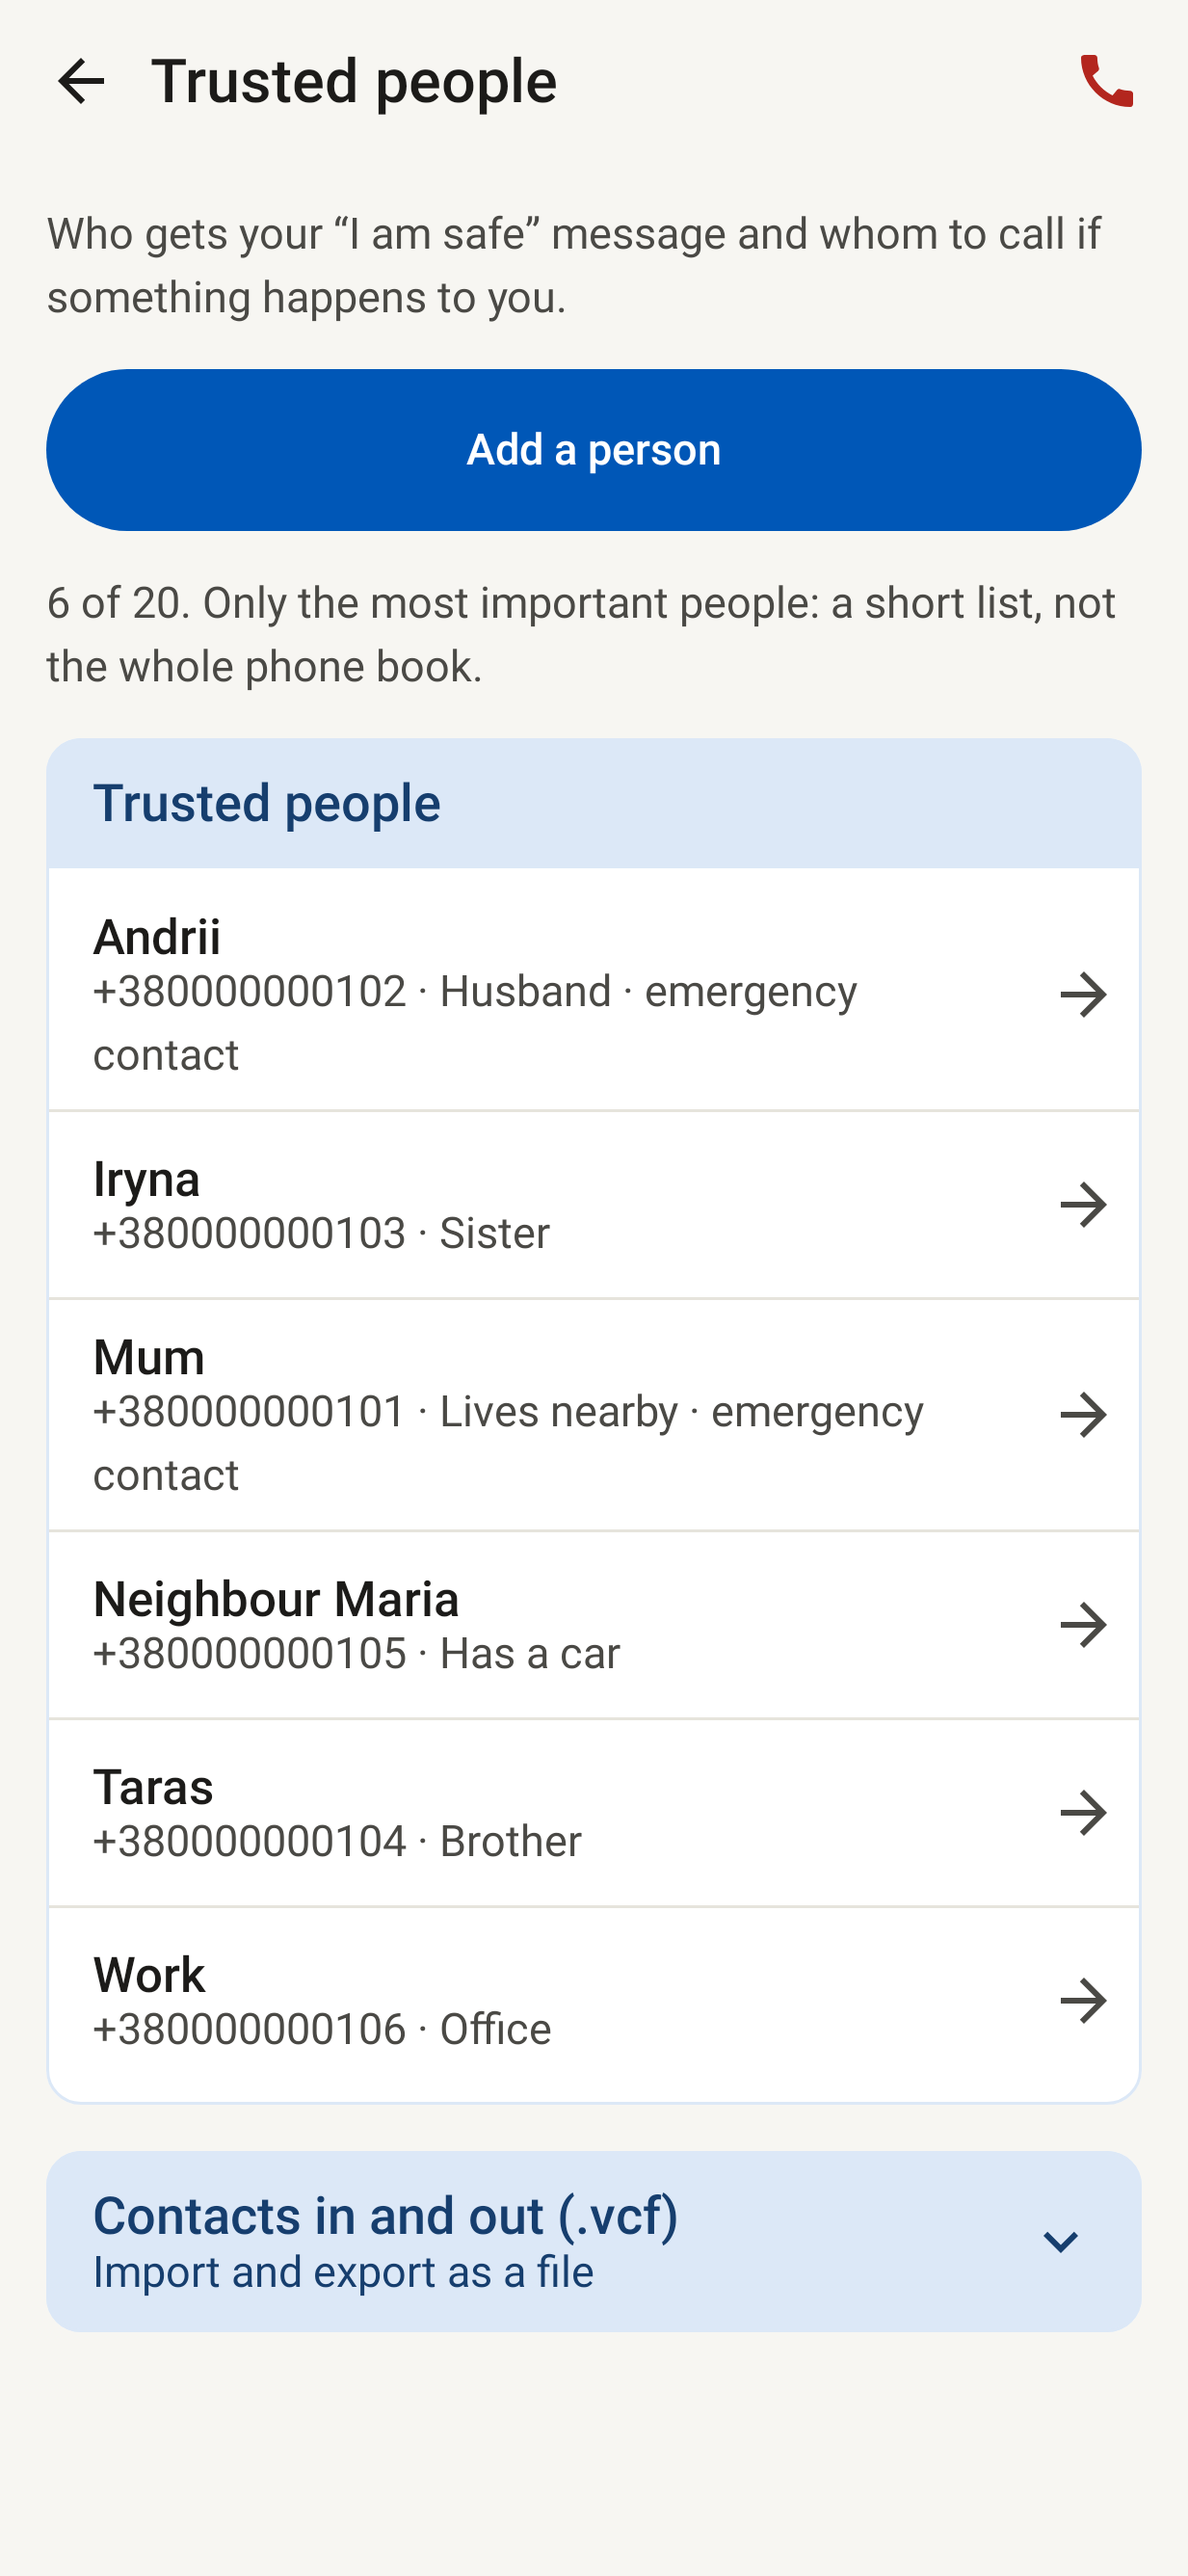
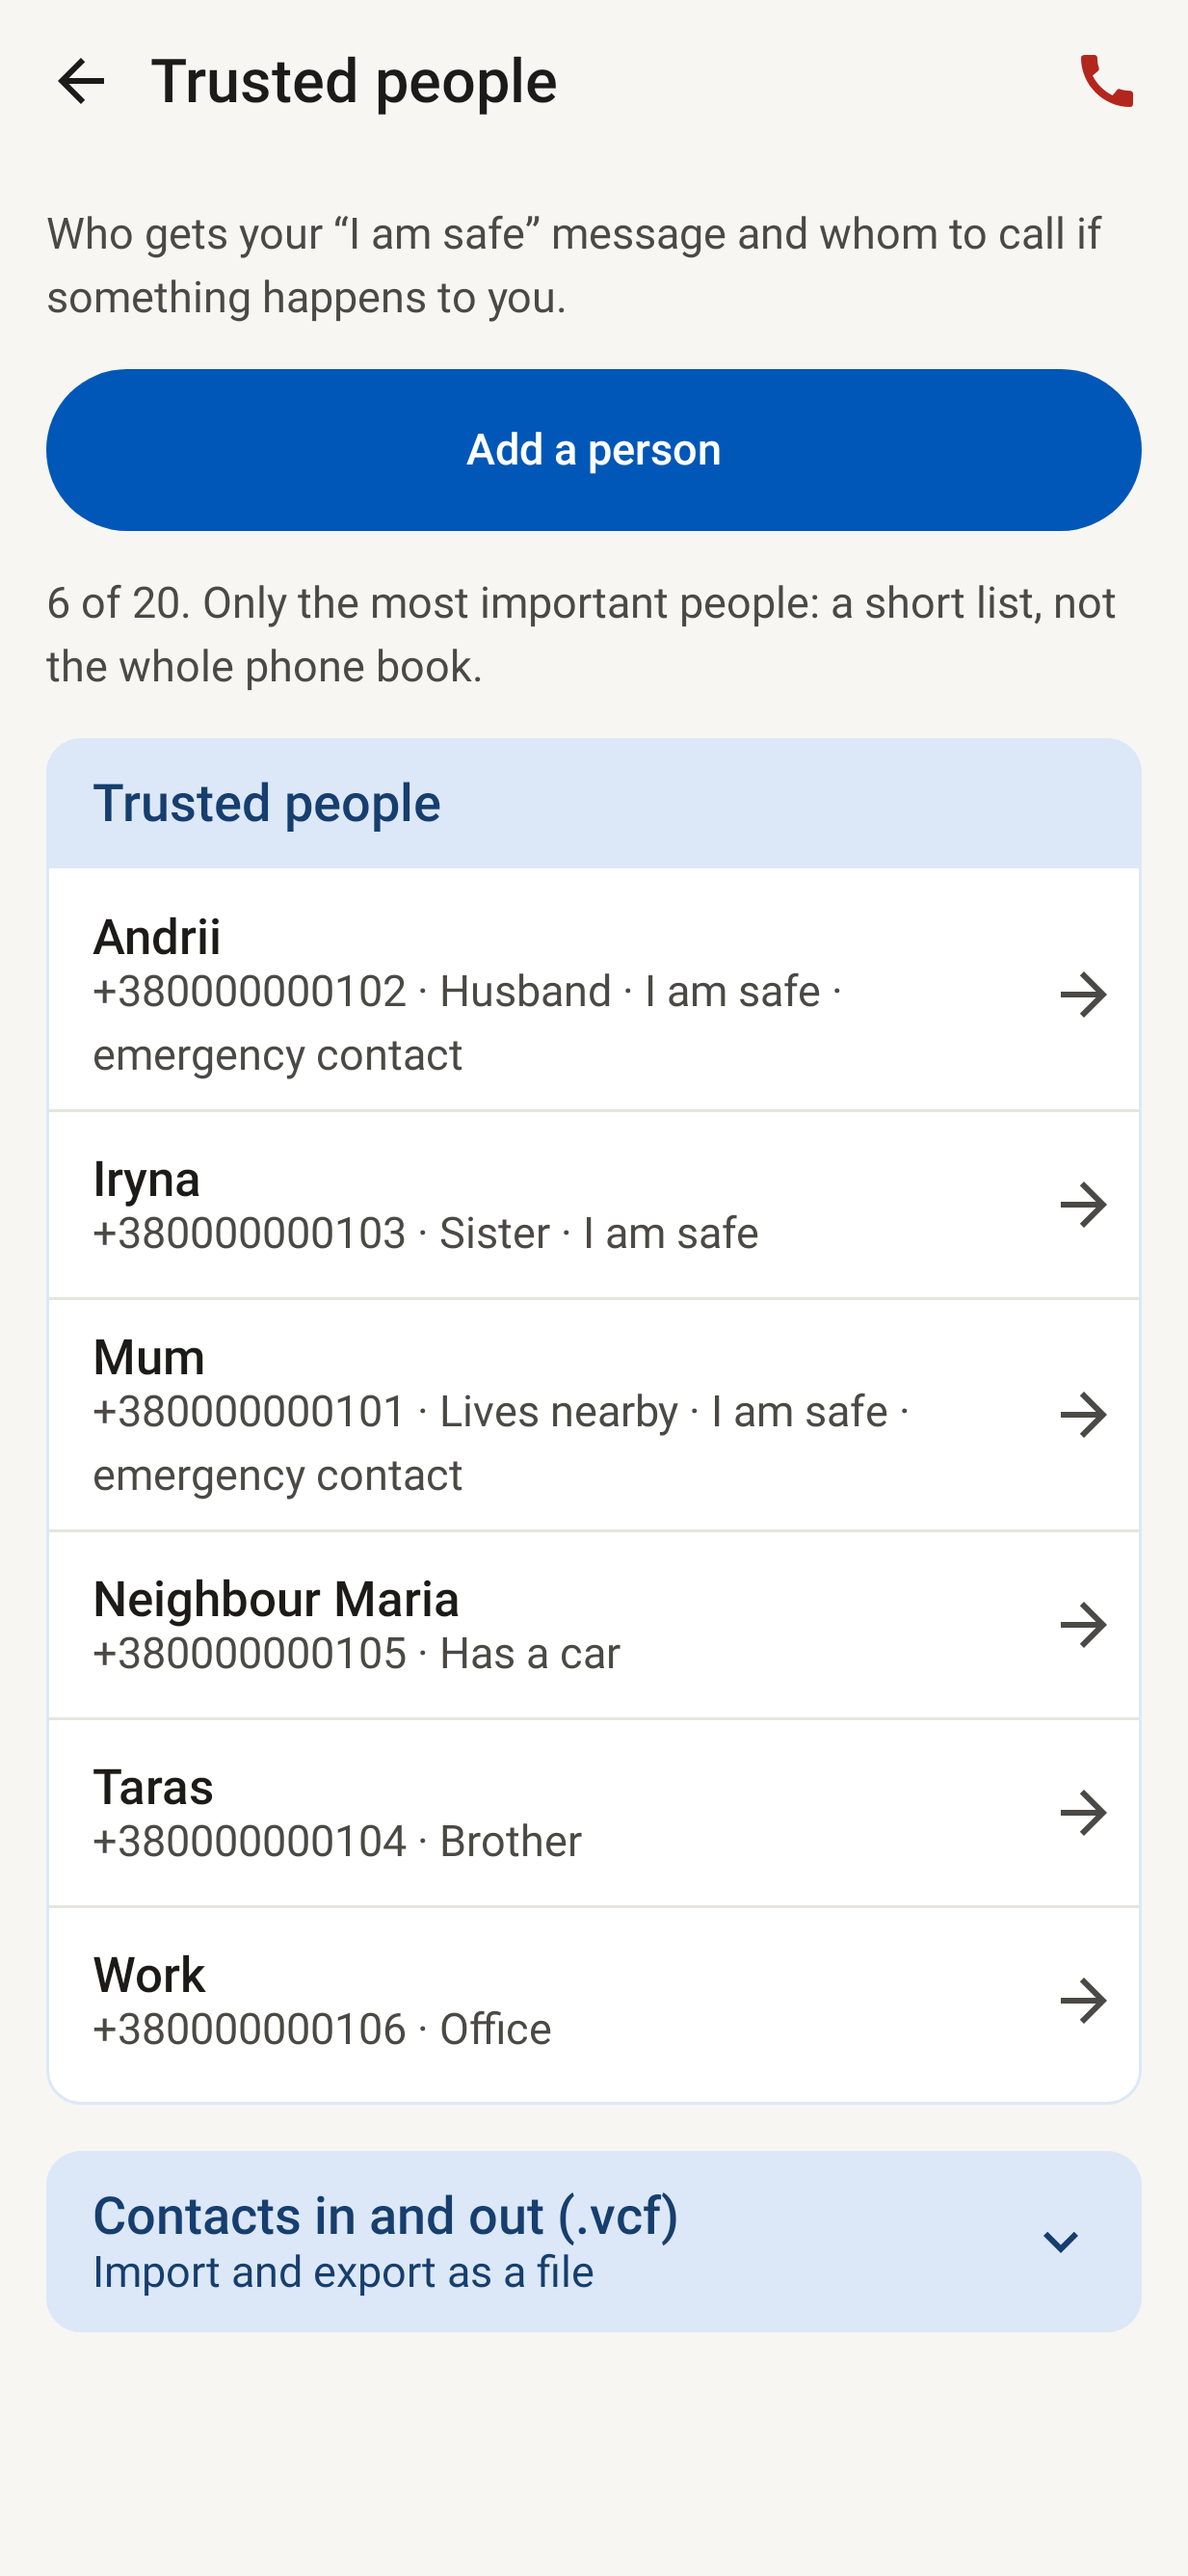
Version 1.1.3: card steps readable again, contacts chosen on import, final review fixes; 18 store pictures; reproducible-build check with Java 21 too

diff --git a/.github/release-notes.md b/.github/release-notes.md
@@ -1,17 +1,29 @@
-**«Спротив» 1.1.2.** Завантажте .apk нижче на телефоні й відкрийте його (оновлення встановлюється поверх попередньої версії, дані лишаються), або оновіть через Obtainium. Потрібен Android 12 або новіший. «Спротив» працює без інтернету й не замінює офіційних вказівок служб і сирен.
+**«Спротив» 1.1.3.** Завантажте .apk нижче на телефоні й відкрийте його (оновлення встановлюється поверх попередньої версії, дані лишаються), або оновіть через Obtainium. Потрібен Android 12 або новіший. «Спротив» працює без інтернету й не замінює офіційних вказівок служб і сирен.
 
-Нове:
-- **Телефони: 106 номерів.** Кол-центри всіх 25 операторів електромереж (обленерго), шість обласних центрів підготовки до національного спротиву, лінії евакуації, реабілітації, правової й психологічної допомоги — з організацій, на які вже вели посилання «Знань». Кожен номер — з офіційного сайту або сайту самої організації, з датою перевірки. Кольори — як у решті застосунку.
-- **Нижня червона панель дзвінка тепер вимкнена за замовчуванням** у всіх режимах; увімкнути — «Налаштування» → «Кнопки дзвінка внизу екрана». 112 та інші служби лишаються за два дотики — у кнопці телефона в кутку екрана.
-- На вузькому екрані кнопка дзвінка показує просто «112», а не обрізаний напис.
+**Варто оновитися:** у версіях 1.1.1 і 1.1.2 кроки в картках дій (кровотеча, тривога тощо) у повному вигляді показувалися вузьким стовпчиком. Тепер знову читаються як слід.
+
+Нове й виправлене:
+- **Імпорт контактів (.vcf):** ви самі позначаєте, кого додати; вся телефонна книга більше не заповнює список першими-ліпшими. Додані одразу отримують «Я в безпеці».
+- **«Довірені люди»** — одразу в «Моєму», під «Я в безпеці».
+- **Головний екран:** повідомлення «Додано на головну» з кнопкою «Скасувати»; номер на плитці не переноситься.
+- **Кнопка телефона в кутку** веде й до всіх номерів «Телефонів».
+- **Режим поїздки** ховає також підготовку до нацспротиву, курси дронів, службу, «Зброю і закон» та номери, що забагато кажуть на блокпосту.
+- **Захист:** вікна з особистими даними сховано від служб спеціальних можливостей; «Моє» закривається через хвилину після виходу у вибір файлу чи камеру; дзвінки й SMS — лише в стандартні застосунки телефона; клавіатура не запам'ятовує пошук; резервна копія не може вимкнути замок; на Android 12 знімки екрана «Мого» завжди заблоковано.
+- **TalkBack:** назви згорнутих блоків, графік роботи в рядках телефонів, кому саме надсилається «Я в безпеці».
 
[1 lines of base64/hex data omitted]
 
-**Sprotyv 1.1.2.** Download the .apk below on your phone and open it (it installs over the previous version and keeps your data), or update through Obtainium. Requires Android 12 or newer. Sprotyv works without internet and does not replace official instructions or sirens.
+**Sprotyv 1.1.3.** Download the .apk below on your phone and open it (it installs over the previous version and keeps your data), or update through Obtainium. Requires Android 12 or newer. Sprotyv works without internet and does not replace official instructions or sirens.
 
-New:
-- **Phones: 106 numbers.** The call centres of all 25 regional grid operators, six regional national resistance training centres, and evacuation, rehabilitation, legal and psychological help lines from organisations the Knowledge links already pointed to. Each number comes from an official site or the organisation's own, with the date it was checked. Colours as in the rest of the app.
-- **The red call bar at the bottom is now off by default** in every mode; turn it on in Settings → "Call buttons at the bottom". 112 and the other services stay two taps away in the phone button in the corner.
-- On a narrow screen the call button says just "112" instead of cut-off words.
+**Worth updating:** in 1.1.1 and 1.1.2 the steps of action cards (bleeding, air alert and others) showed as a narrow column in the full look. They read properly again.
+
+New and fixed:
+- **Importing contacts (.vcf):** you tick whom to add; a whole phone book no longer fills the list with whoever comes first. Those added get "I am safe" at once.
+- **Trusted people** right in My data, under "I am safe".
+- **Home screen:** an "Added to the home screen" notice with Undo; a number on a tile is never broken in two.
+- **The phone button in the corner** also leads to every number in Phones.
+- **Trip mode** also hides resistance training, drone courses, service, Weapons and the law, and numbers that say too much at a checkpoint.
+- **Protection:** dialogs with personal data are hidden from accessibility services; My data closes a minute after leaving for a file picker or the camera; calls and SMS go only to the phone's own apps; searches are not learned by the keyboard; a backup cannot turn the lock off; on Android 12 screenshots of My data are always blocked.
+- **TalkBack:** names of folded blocks, opening hours in phone rows, whom "I am safe" is sent to.
 
[1 lines of base64/hex data omitted]
